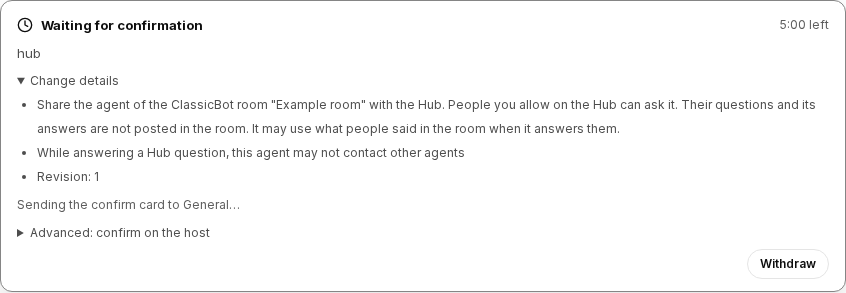
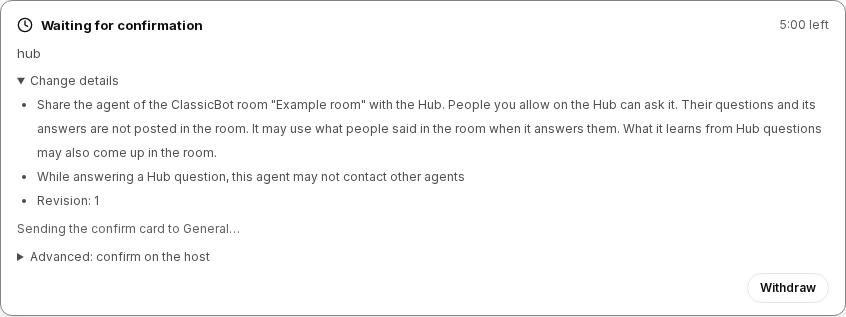
docs(hub): record complete Classic memory consent proof

diff --git a/docs/evidence/hub-classic-share-m3285/README.md b/docs/evidence/hub-classic-share-m3285/README.md
@@ -31,7 +31,7 @@ The 17 Classic tests include Discord and Telegram, contact restriction off, acce
 
 ## Rendered views
 
-[receipt.json](receipt.json): **20/20** checks and six originals, on `8361945af` (PM copy correction over the synced routing source). The walk uses the real Fleet shell and local exposure/confirmation HTTP APIs with a disposable SQLite store. Pairing and representative readiness are inert. Web authority is off in this fixture to retain the existing pending-confirmation view; the normal owner's self-confirming path was not changed. All people, room names and ids are synthetic.
+[receipt.json](receipt.json): **22/22** checks and six originals, on `462768b5d` (final PM copy correction over the synced routing source). The walk uses the real Fleet shell and local exposure/confirmation HTTP APIs with a disposable SQLite store. Pairing and representative readiness are inert. Web authority is off in this fixture to retain the existing pending-confirmation view; the normal owner's self-confirming path was not changed. All people, room names and ids are synthetic.
 
 | View | Desktop EN / light | Phone zh-TW / dark |
 |---|---|---|
@@ -56,3 +56,9 @@ The obsolete M-3014 design, [#3765](https://github.com/songsid/AgEnD/pull/3765),
 PM accepted the layout at `54bae4f3a` conditional on two exact changes, with no further review round required: the Classic lead is now its own paragraph, and the confirmation is a statement naming the ClassicBot room. Both languages were retaken at `8361945af`; all four changed lead/confirmation originals were inspected again. The runtime guard is unchanged. The exposure and pending-language tests passed (40 cases) and the adjusted story-copy test passed (19 cases); the numeric changelog validator passes 75/75.
 
 The first secret scan flagged two entries in the old sync manifest: public-source SHA-256 values under API-file-name keys. Both were independently recomputed from the public Git diff. The current manifest separates `path` and `sha256`; `.gitleaksignore` names only the two exact historical fingerprints. No credential was involved or rotated. [Classification](validation/scan-classification.json) records the masked locations and the local scan scope; exact CI remains the full remerge scan.
+
+## Review delta: complete two-way consent
+
+The code reviewer found no blocking source issue at `b381c0d6e` and caught the post-await reply guard with a mutant. The remaining consent question is closed by PM's explicit final wording: the summary now also says “What it learns from Hub questions may also come up in the room.” /「它從 Hub 提問中得知的內容，也可能在房間裡提到。」 These are statements about later answers, distinct from the guarantee that no Hub question or answer is automatically posted to the room.
+
+At `462768b5d`, the API and pending-language tests pass 40/40; the 17 Classic tests also pass with a new direct public `notifyInstanceTopic`/negative-ACK assertion. The routing runtime is byte-identical to `b381c0d6e`. The headless walk now checks the full two-way consent in both languages (22/22); both updated confirmation originals were inspected and have complete controls and no clipping. PM requested no further round after applying those exact sentences.
